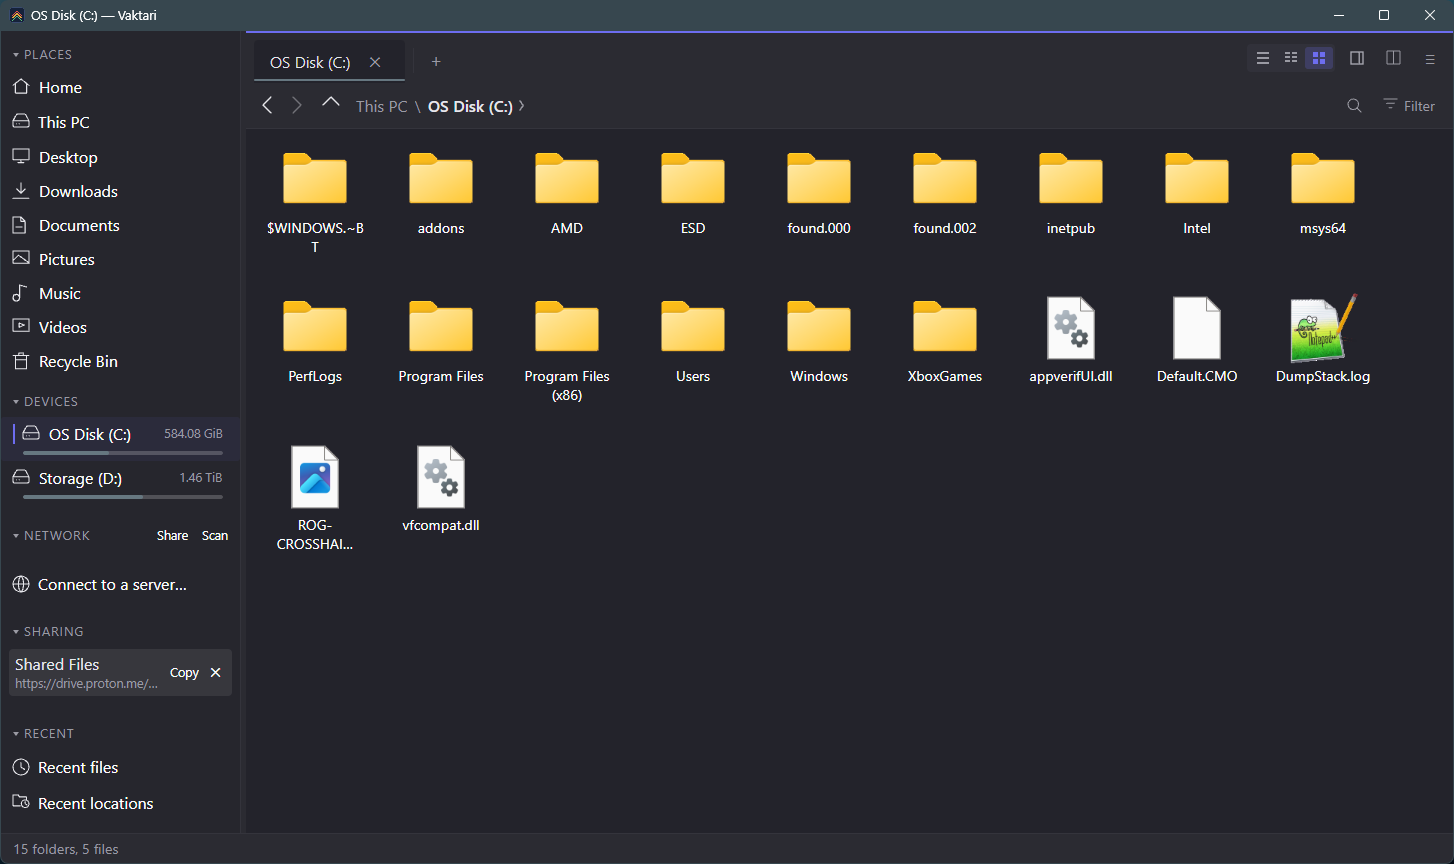
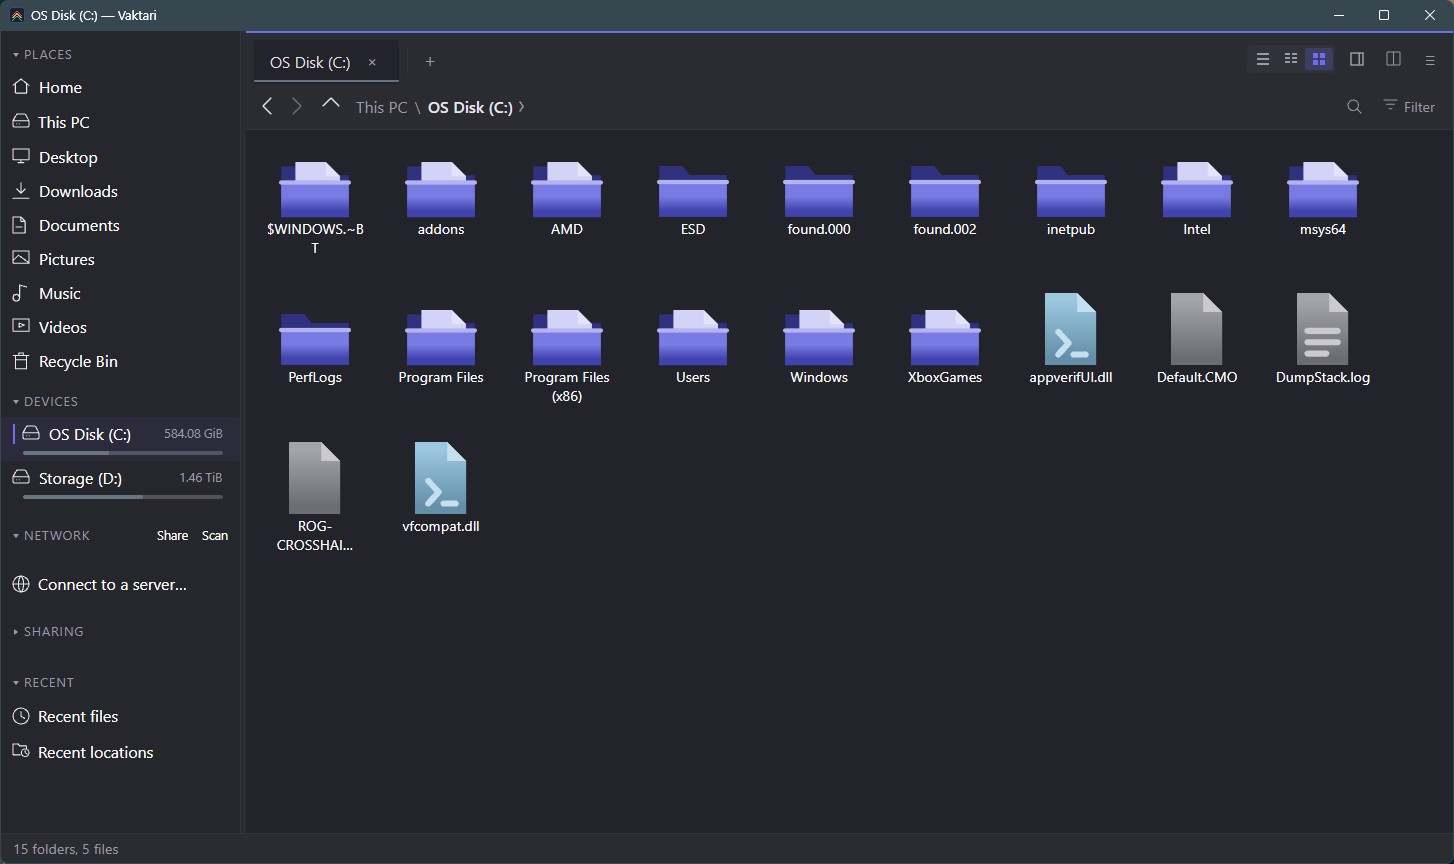
The lead picture keeps the sharing row to itself
Same window, with the Sharing section folded and an icon theme
imported -- so the readme's first image no longer publishes a live
share link, and the caption says the icons are a theme rather than
letting the shipped set be judged by somebody else's.

diff --git a/README.md b/README.md
@@ -16,7 +16,7 @@ second copy of all of it.
 
 ![Vaktari](docs/screenshot-grid.png)
 
-<sub>Large grid at the root of a drive, on Windows.</sub>
+<sub>Large grid at the root of a drive, on Windows, with an imported icon theme.</sub>
 
 ---
 
